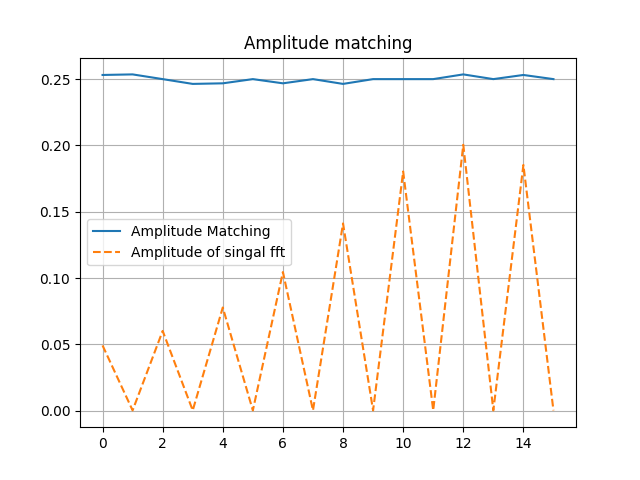
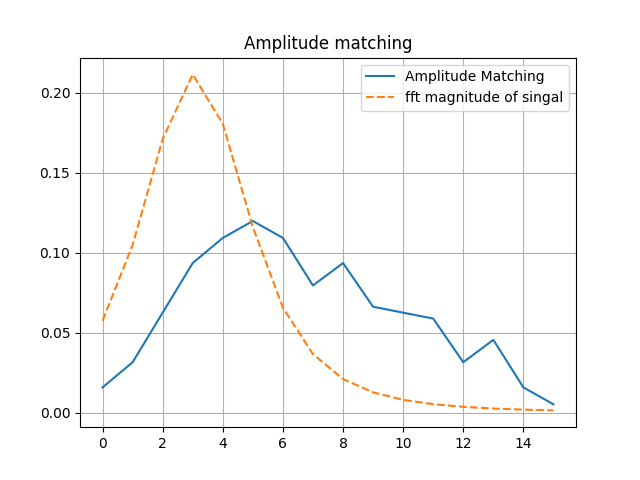
calculate a. comment permu. square

diff --git a/03matching_wavelet.py b/03matching_wavelet.py
@@ -48,21 +48,21 @@ def matching_wavelet(signal, N, l, T, delta_omega, P, R, a) :
 
     # Make matrix W
     fft = np.fft.fft(signal)
-    fft = np.fft.fftshift(fft)
+    # fft = np.fft.fftshift(fft)
 
-    size = fft.shape[0]
-    _permuatation_mat = np.identity(size)
-    permuatation_mat = np.zeros((size, size))
-    n = 0
-    for idx in range(0, size, 2) :
-        permuatation_mat[n, :] = _permuatation_mat[idx, :].copy()
-        n += 1
-    for idx in range(1, size, 2) :
-        permuatation_mat[n] = _permuatation_mat[idx]
-        n += 1
-    fft = np.matmul(fft, permuatation_mat)
+    # size = fft.shape[0]
+    # _permuatation_mat = np.identity(size)
+    # permuatation_mat = np.zeros((size, size))
+    # n = 0
+    # for idx in range(0, size, 2) :
+    #     permuatation_mat[n, :] = _permuatation_mat[idx, :].copy()
+    #     n += 1
+    # for idx in range(1, size, 2) :
+    #     permuatation_mat[n] = _permuatation_mat[idx]
+    #     n += 1
+    # fft = np.matmul(fft, permuatation_mat)
     
-    fft_magnitude = abs(fft)
+    fft_magnitude = abs(fft) ** 2
 
     start_n = int(2**l / 3) + 1
     end_n = int((2**(l+2)) / 3)
@@ -73,10 +73,21 @@ def matching_wavelet(signal, N, l, T, delta_omega, P, R, a) :
     W = W * 1/sum_W # normalizeing W
 
     if end_n - start_n + 1 == W.shape[0] :
-        print("Right the size of W")
-        print(f"W.shape {W.shape} | end_n - start_n {end_n - start_n + 1}")
+        print("Correspond the size of W")
+        print(f"W.shape: {W.shape} | start_n: {start_n} | end_n: {end_n}")
     else :
         print(f"W.shape have to equal to {end_n - start_n + 1}. Configure the size.")
+
+    # Calculate a
+    A_t = np.transpose(A)
+    numerate1 = np.transpose(np.ones(A.shape[0])) # 1.tr
+    numerate2 = np.linalg.inv(np.matmul(A, A_t))
+    numerate3 = np.matmul(np.matmul(np.matmul(numerate1, numerate2), A), W) # 분자
+    denominator1 = np.matmul(numerate1, numerate2)
+    denominator2 = np.matmul(denominator1, np.ones(A.shape[0])) # 분모
+    a = numerate3 / denominator2
+    print(f"a: {a}") # a
+
 
     # Calculate Y
     A_t = np.transpose(A)
@@ -92,12 +103,12 @@ if __name__ == "__main__" :
     # Matching Discrete Spectrum Amplitude
     Y, W = matching_wavelet(signal, N, l, T, delta_omega, P, R, a)
     # W = np.sqrt(W)
-    Y = np.sqrt(Y)
+    # Y = np.sqrt(Y)
 
     # Draw the vector Y
     plt.title("Amplitude matching")
     plt.plot([i for i in range(Y.shape[0])], Y, label='Amplitude Matching')
-    plt.plot([i for i in range(Y.shape[0])], W, '--', label='Amplitude of singal fft')
+    plt.plot([i for i in range(Y.shape[0])], W, '--', label='fft magnitude of singal')
     plt.grid()
     plt.legend()
 
